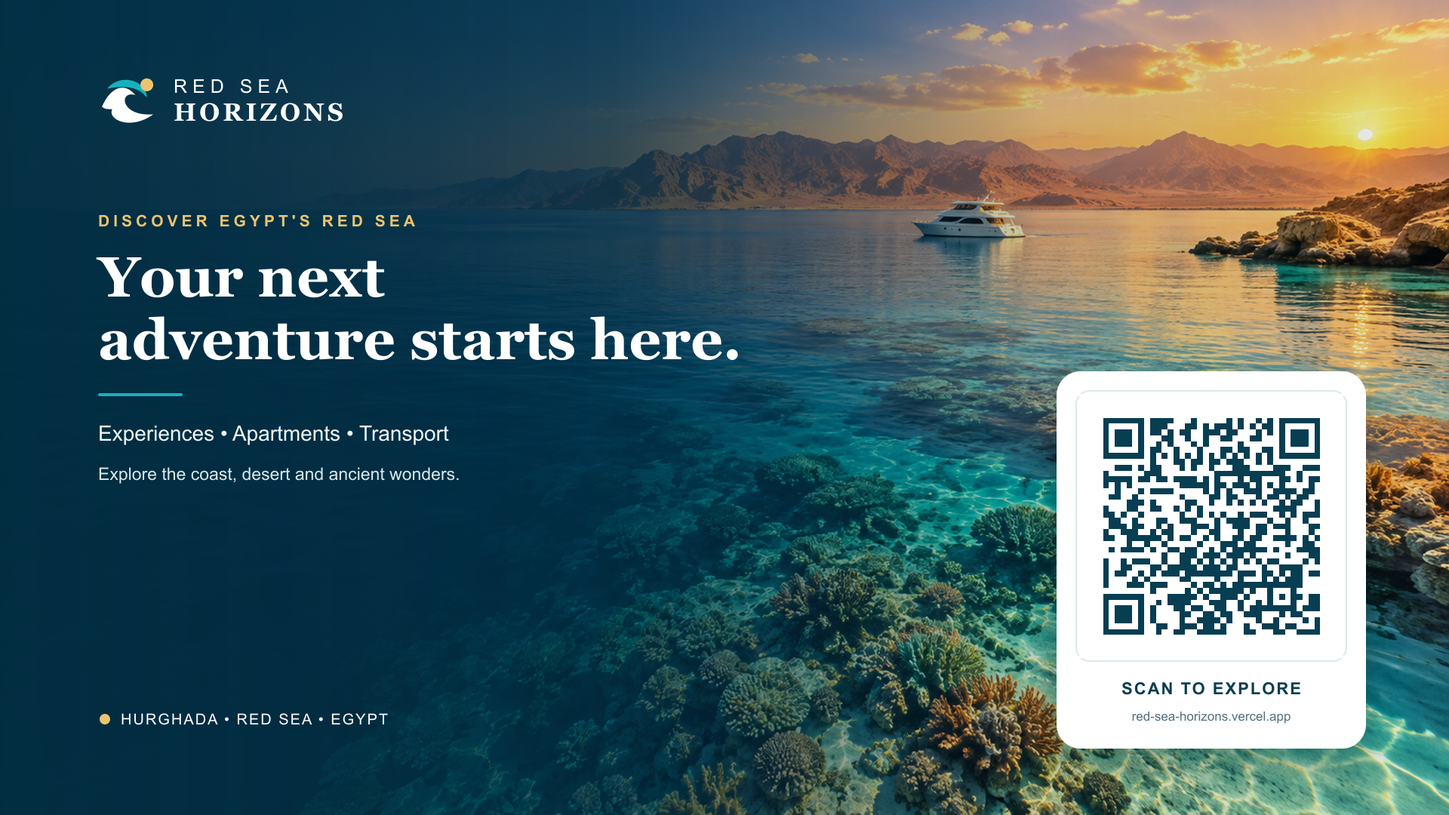
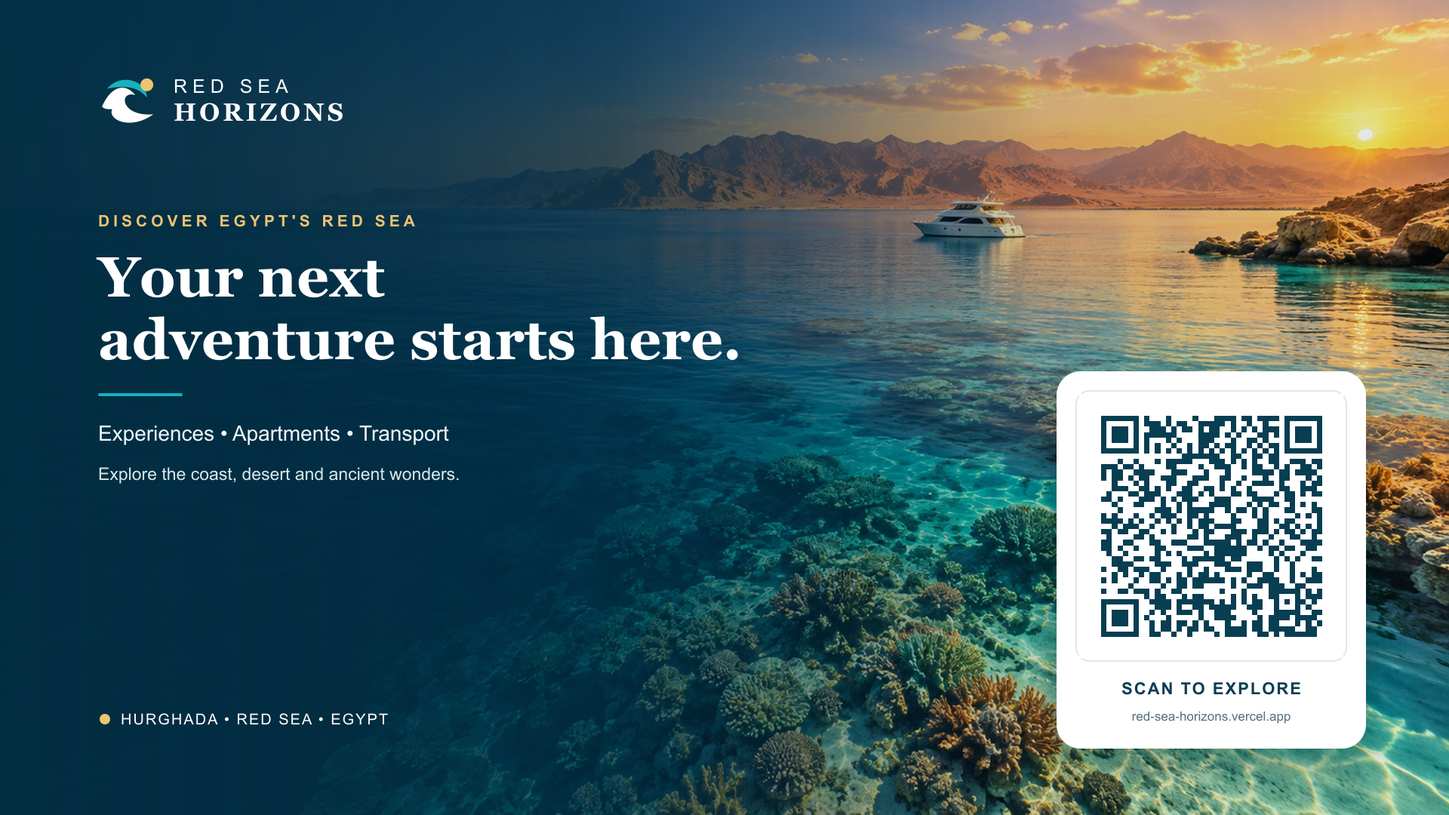
Add Arabic admin and route QR to reviews

Changed region(s): [[0.75, 0.4889, 0.9375, 0.7944]]

diff --git a/src/components/AdminArabic.tsx b/src/components/AdminArabic.tsx
@@ -1,0 +1,64 @@
+"use client";
+
+import {useEffect,useRef} from "react";
+
+const arabic:Record<string,string>={
+  "Operations navigation":"التنقل في العمليات","Overview":"نظرة عامة","Reservations":"الحجوزات","Departure calendar":"جدول الرحلات","Resources & assignments":"الموارد والتكليفات","Apartments":"الشقق","Transport":"النقل","Guests":"الضيوف","Contact inbox":"صندوق رسائل التواصل","Payments":"المدفوعات","Refunds & exceptions":"المبالغ المستردة والاستثناءات","Photos & galleries":"الصور والمعارض","Catalog & prices":"الكتالوج والأسعار","Notifications & jobs":"الإشعارات والمهام","Reports":"التقارير","Staff":"الموظفون","Settings & audit":"الإعدادات وسجل التدقيق",
+  "Staff sign in":"تسجيل دخول الموظفين","Sign in":"تسجيل الدخول","Signing in…":"جارٍ تسجيل الدخول…","Email":"البريد الإلكتروني","Password":"كلمة المرور","Checking staff access…":"جارٍ التحقق من صلاحية الموظف…","Sign in with your staff email and password. Your current role and scope control access.":"سجّل الدخول ببريد الموظف وكلمة المرور. يحدد دورك ونطاق عملك الصلاحيات المتاحة.","Open guest website":"فتح موقع الزوار","Sign out":"تسجيل الخروج","Workspace menu":"قائمة لوحة الإدارة","Staff workspace":"مساحة عمل الموظفين","Local demonstration":"عرض محلي","Local demonstration · Africa/Cairo":"عرض محلي · توقيت القاهرة","Staff workspace · Africa/Cairo":"مساحة عمل الموظفين · توقيت القاهرة","Red Sea Horizons / Operations":"ريد سي هورايزنز / العمليات","Africa/Cairo":"توقيت القاهرة","العربية":"العربية",
+  "Reservation overview":"نظرة عامة على الحجوزات","Every request receives a staff decision before payment.":"يتم اتخاذ قرار من الموظفين بشأن كل طلب قبل الدفع.","Review requests":"مراجعة الطلبات","Awaiting review":"طلبات بانتظار المراجعة","Payment holds":"طلبات بانتظار الدفع","Confirmed reservations":"الحجوزات المؤكدة","Financial exceptions":"الاستثناءات المالية","Requests needing a decision":"طلبات تحتاج إلى قرار","View all reservations":"عرض جميع الحجوزات","Today’s operating controls":"ضوابط التشغيل اليوم","Departure schedules":"جداول الرحلات","Apartment blocks & stays":"حجوزات وإقامات الشقق","Delivery & job failures":"فشل التسليم والمهام","Open":"فتح","Availability is checked at approval":"يتم التحقق من التوفر عند الموافقة","Availability is checked again when you approve. A conflict preserves the request and allocates nothing.":"يُعاد التحقق من التوفر عند الموافقة. إذا وُجد تعارض يبقى الطلب دون تخصيص أي موارد.",
+  "Your staff workspace":"مساحة عمل الموظفين","Select an authorized workspace. Access is checked again on every operation.":"اختر مساحة عمل مصرحاً بها. تتم إعادة التحقق من الصلاحيات في كل عملية.","Review each request before allocating capacity or requesting payment.":"راجع كل طلب قبل تخصيص السعة أو طلب الدفع.","Reservation":"الحجز","Guest":"الضيف","Status":"الحالة","Total":"الإجمالي","Received":"تاريخ الاستلام","No reservations match this view.":"لا توجد حجوزات مطابقة لهذا العرض.","Search this view…":"البحث في هذا العرض…","All states":"كل الحالات","shown":"معروض","Refresh":"تحديث","Actions":"الإجراءات","Manage":"إدارة","Close":"إغلاق","Close editor":"إغلاق المحرر","Save":"حفظ","Saving…":"جارٍ الحفظ…","Select…":"اختر…","No approved options are configured.":"لا توجد خيارات معتمدة مهيأة.",
+  "Catalog & content":"الكتالوج والمحتوى","Draft content is published only after translations and policy approvals pass.":"لا يُنشر المحتوى المسودة إلا بعد اعتماد الترجمات والسياسات.","Experience":"التجربة","Category":"الفئة","State":"الحالة","Minutes":"الدقائق","Create experience":"إنشاء تجربة","Experiences":"التجارب","Pages & translations":"الصفحات والترجمات","Pickup locations":"مواقع الاستلام","Pickup prices":"أسعار الاستلام","Reviews":"التقييمات","Title":"العنوان","Language":"اللغة","URL slug":"رابط الصفحة","Summary":"الملخص","Duration in minutes":"المدة بالدقائق","Booking cutoff in minutes":"مهلة الحجز بالدقائق","Destination":"الوجهة","Content language":"لغة المحتوى","Itinerary — one step per line":"برنامج الرحلة — خطوة في كل سطر","Included — one item per line":"المشمول — عنصر في كل سطر","Excluded — one item per line":"غير المشمول — عنصر في كل سطر","Guest restrictions and preparation":"قيود الضيوف والاستعدادات","Minimum participant age":"الحد الأدنى لعمر المشارك","Cancellation policy version":"إصدار سياسة الإلغاء","Meeting and pickup notes":"ملاحظات اللقاء والاستلام",
+  "Read guest enquiries and track responses.":"اقرأ استفسارات الضيوف وتابع الردود.","Request status":"حالة الطلب","Refresh inbox":"تحديث الصندوق","Loading contact requests…":"جارٍ تحميل طلبات التواصل…","Sender":"المرسل","Load older requests":"تحميل طلبات أقدم","Contact request":"طلب تواصل","Back to contact inbox":"العودة إلى صندوق التواصل","Loading contact request…":"جارٍ تحميل طلب التواصل…","Phone":"الهاتف","Not provided":"غير متوفر","Guest message":"رسالة الضيف","Contact status":"حالة التواصل","New":"جديد","Assigned":"مُسند","Replied":"تم الرد","Closed":"مغلق","Spam":"مزعج","Save status":"حفظ الحالة","Refresh request":"تحديث الطلب","Contact status updated.":"تم تحديث حالة التواصل.",
+  "Reservation details":"تفاصيل الحجز","Return to requests":"العودة إلى الطلبات","Guest & reservation":"الضيف والحجز","Name":"الاسم","Initial payment due":"الدفعة الأولى المستحقة","Reserved items":"العناصر المحجوزة","Timeline":"الخط الزمني","Guest requests":"طلبات الضيف","No open change or cancellation requests.":"لا توجد طلبات تعديل أو إلغاء مفتوحة.","Staff decision":"قرار الموظف","The server locks and rechecks every item. An availability conflict allocates nothing.":"يقفل الخادم كل عنصر ويعيد التحقق منه. عند تعارض التوفر لا يتم تخصيص أي شيء.","Record decision":"تسجيل القرار","Decision":"القرار","Reason or internal note":"السبب أو ملاحظة داخلية","Payment is requested only after the approval transaction succeeds.":"لا يُطلب الدفع إلا بعد نجاح معاملة الموافقة.",
+  "Read the configured business identity and append-only operational audit.":"عرض هوية النشاط وسجل العمليات غير القابل للتعديل.","Action":"الإجراء","Target":"الهدف","Actor":"المنفذ","Time":"الوقت","Staff access":"صلاحيات الموظفين","Invite staff":"دعوة موظف","Invite-only access. Role changes and revocation are checked on every sensitive operation.":"الدخول بالدعوة فقط. يتم التحقق من تغييرات الأدوار وإلغاء الصلاحيات في كل عملية حساسة.","Staff member":"الموظف","Active":"نشط","Invitation email":"بريد الدعوة","Initial role":"الدور الأولي","Booking reports":"تقارير الحجوزات","From date":"من تاريخ","To date":"إلى تاريخ","Currency":"العملة","Apply report filters":"تطبيق مرشحات التقرير",
+  "pending review":"بانتظار المراجعة","approved pending payment":"موافق عليه بانتظار الدفع","confirmed":"مؤكد","rejected":"مرفوض","expired":"منتهي","cancelled":"ملغي","completed":"مكتمل","new":"جديد","assigned":"مُسند","replied":"تم الرد","closed":"مغلق","spam":"مزعج","Yes":"نعم","No":"لا","Version":"الإصدار",
+  "Times are shown in Africa/Cairo. Shared departures allocate seats once approved.":"تُعرض الأوقات بتوقيت القاهرة. تُخصص مقاعد الرحلات المشتركة بعد الموافقة.","Create departure":"إنشاء رحلة","Starts at (UTC)":"تبدأ في (UTC)","Ends at (UTC)":"تنتهي في (UTC)","Seat capacity":"سعة المقاعد","Request cutoff (UTC)":"آخر موعد للطلب (UTC)","Coordinate boats, guides, equipment and drivers without overlapping exclusive assignments.":"نسّق القوارب والمرشدين والمعدات والسائقين دون تداخل التكليفات الحصرية.","Create resource":"إنشاء مورد","Resource":"المورد","Kind":"النوع","Allocation":"التخصيص","Capacity":"السعة","Resource name":"اسم المورد","Capacity model":"نموذج السعة","Resource code":"رمز المورد","Vehicle passenger seats":"مقاعد ركاب المركبة","Vehicle luggage capacity":"سعة أمتعة المركبة","Vehicle type":"نوع المركبة",
+  "Agency-managed physical units. Approved stays and manual blocks share one inventory.":"وحدات تديرها الوكالة. تتشارك الإقامات المعتمدة والحجوزات اليدوية في مخزون واحد.","Create apartment":"إنشاء شقة","Unit":"الوحدة","Apartment":"الشقة","Nightly rate":"سعر الليلة","Property":"العقار","Unit code":"رمز الوحدة","Description":"الوصف","Bedrooms":"غرف النوم","Beds":"الأسرة","Bathrooms":"الحمامات","Maximum guests":"الحد الأقصى للضيوف","Nightly rate in minor units":"سعر الليلة بالوحدة الصغرى","Charge currency":"عملة الدفع","Minimum nights":"الحد الأدنى لليالي","Cleaning buffer days":"أيام مهلة التنظيف","Check-in time":"وقت تسجيل الوصول","Check-out time":"وقت تسجيل المغادرة","Amenities":"المرافق","Cleaning fee in minor units":"رسوم التنظيف بالوحدة الصغرى",
+  "Passenger and luggage requirements remain attached to the reservation.":"تظل متطلبات الركاب والأمتعة مرتبطة بالحجز.","Pickup":"الاستلام","Pickup time":"وقت الاستلام","Passengers":"الركاب","Bags":"الحقائب","Customer contact details are limited to your current permissions and scope.":"تُعرض بيانات تواصل العملاء وفق صلاحياتك ونطاق عملك فقط.","Provider events and verified offline receipts determine the ledger.":"تحدد أحداث مزود الدفع والإيصالات اليدوية الموثقة سجل الحسابات.","Source":"المصدر","Amount":"المبلغ","Recorded":"تاريخ التسجيل","Refund requests require a receipt source and separate authorized approval.":"تتطلب طلبات الاسترداد مصدر إيصال وموافقة مستقلة من شخص مخول.","Request refund":"طلب استرداد","Reason":"السبب","Booking ID":"معرف الحجز","Refund amount in minor units":"مبلغ الاسترداد بالوحدة الصغرى",
+  "Private delivery, package entitlements and publication consent are separate controls.":"التسليم الخاص واستحقاقات الباقات وموافقة النشر ضوابط مستقلة.","Create gallery":"إنشاء معرض","Gallery":"المعرض","Visibility":"الظهور","Expires":"ينتهي في","Gallery type":"نوع المعرض","Gallery title":"عنوان المعرض","Expiry (UTC)":"تاريخ الانتهاء (UTC)","Review email delivery and guests needing manual contact. Open an authorized reservation to prepare a WhatsApp draft; review and send it yourself.":"راجع حالات التسليم والضيوف الذين يحتاجون تواصلاً يدوياً. افتح حجزاً مصرحاً به لإعداد مسودة واتساب ثم راجعها وأرسلها بنفسك.","Event":"الحدث","Delivery state":"حالة التسليم","Attempt":"المحاولة","Created":"تاريخ الإنشاء","Aggregates use recorded data. Keep currencies separate when assessing finance.":"تعتمد المجاميع على البيانات المسجلة. افصل العملات عند مراجعة الحسابات.","Bookings":"الحجوزات","Operational total":"الإجمالي التشغيلي",
+  "Read guest enquiries and track responses. Retained messages are available to authorized staff with global scope.":"اقرأ استفسارات الضيوف وتابع الردود. الرسائل المحفوظة متاحة للموظفين المخولين ذوي النطاق العام.","Notification & jobs":"الإشعارات والمهام","Durable jobs":"المهام الموثوقة","Finance report":"التقرير المالي","Apartment occupancy":"إشغال الشقق","Agency settings":"إعدادات الوكالة","Content pages":"صفحات المحتوى","Review moderation":"إدارة التقييمات","Media processing":"معالجة الوسائط","Photography packages":"باقات التصوير","Pickup places and addresses approved by the operator.":"مواقع وعناوين الاستلام المعتمدة من المشغل.","Saved surcharges apply to new quotes. Accepted prices remain unchanged.":"تطبق الرسوم الإضافية المحفوظة على عروض الأسعار الجديدة دون تغيير الأسعار المقبولة.","Translation approval is required before publication.":"يلزم اعتماد الترجمة قبل النشر.","Moderation records a reason and preserves the guest’s original rating.":"تسجل الإدارة سبب الإجراء مع الاحتفاظ بتقييم الضيف الأصلي.","Retry eligible failed work after correcting its underlying cause.":"أعد محاولة المهام المؤهلة بعد معالجة سبب الفشل.","Business identity and booking intake require owner-approved content.":"تتطلب هوية النشاط واستقبال الحجوزات محتوى معتمداً من المالك.","Uploads remain quarantined until verified and processed.":"تبقى الملفات المرفوعة في العزل حتى التحقق منها ومعالجتها."
+};
+
+function translated(value:string){
+  const trimmed=value.trim();
+  if(!trimmed)return value;
+  const direct=arabic[trimmed]??arabic[trimmed.replaceAll("_"," ")];
+  if(direct)return value.replace(trimmed,direct);
+  const noMatch=trimmed.match(/^No (.+) match this view\.$/);
+  if(noMatch)return value.replace(trimmed,`لا توجد نتائج مطابقة في ${arabic[noMatch[1]]??noMatch[1]}.`);
+  const shown=trimmed.match(/^(\d+) shown$/);
+  if(shown)return value.replace(trimmed,`${shown[1]} معروض`);
+  return value;
+}
+
+function localize(root:HTMLElement){
+  const walker=document.createTreeWalker(root,NodeFilter.SHOW_TEXT);
+  let node:Node|null;
+  while((node=walker.nextNode())){
+    const element=node.parentElement;
+    if(!element||element.closest("script,style")||element.matches("input,textarea"))continue;
+    const next=translated(node.nodeValue??"");
+    if(next!==node.nodeValue)node.nodeValue=next;
+  }
+  root.querySelectorAll<HTMLElement>("[aria-label],[placeholder],[title]").forEach(element=>{
+    for(const attribute of ["aria-label","placeholder","title"]){const value=element.getAttribute(attribute);const next=value?translated(value):value;if(value&&next!==value)element.setAttribute(attribute,next!);}
+  });
+  root.querySelectorAll<HTMLElement>(".admin-empty").forEach(element=>{if(/^No .+ match this view\.$/.test(element.textContent?.trim()??""))element.textContent="لا توجد نتائج مطابقة لهذا العرض.";});
+  root.querySelectorAll<HTMLAnchorElement>('a[href^="/admin"]').forEach(link=>{
+    const url=new URL(link.href,location.origin);url.searchParams.set("lang","ar");const next=`${url.pathname}${url.search}${url.hash}`;if(link.getAttribute("href")!==next)link.setAttribute("href",next);
+  });
+}
+
+export function AdminArabic({enabled,children}:{enabled:boolean;children:React.ReactNode}){
+  const ref=useRef<HTMLDivElement>(null);
+  useEffect(()=>{
+    const root=ref.current;if(!enabled||!root)return;
+    localize(root);
+    const observer=new MutationObserver(()=>localize(root));
+    observer.observe(root,{subtree:true,childList:true,characterData:true,attributes:true,attributeFilter:["aria-label","placeholder","title","href"]});
+    const keepArabic=(event:MouseEvent)=>{const link=(event.target as Element|null)?.closest<HTMLAnchorElement>('a[href^="/admin"]');if(!link||link.classList.contains("admin-language-switch"))return;event.preventDefault();event.stopPropagation();const url=new URL(link.href,location.origin);url.searchParams.set("lang","ar");location.assign(`${url.pathname}${url.search}${url.hash}`);};
+    root.addEventListener("click",keepArabic,true);
+    return()=>{observer.disconnect();root.removeEventListener("click",keepArabic,true);};
+  },[enabled]);
+  return <div ref={ref} className="admin-locale-root" lang={enabled?"ar":"en"} dir={enabled?"rtl":"ltr"}>{children}</div>;
+}

diff --git a/src/components/AdminApp.tsx b/src/components/AdminApp.tsx
@@ -7,6 +7,7 @@ import {money,cairoDate} from "./format";
 import type {BookingDTO} from "./GuestFlows";
 import {GuestWhatsAppLink} from "./WhatsAppLinks";
 import {AdminContact,AdminContactInbox} from "./AdminContact";
+import {AdminArabic} from "./AdminArabic";
 
 type Row=Record<string,unknown>;
 type Field={name:string;label:string;type?:"number"|"datetime-local"|"date"|"email"|"textarea"|"select"|"time"|"multiselect";required?:boolean;options?:string[];lookup?:string;defaultValue?:string;hint?:string;path?:string};
@@ -33,18 +34,20 @@ function text(value:unknown):string {if(value===null||value===undefined)return "
 function fieldValue(row:Row,key:string){const aliases:Record<string,string[]>={title:["title","name","unit_code"],guest_name:["guest_name","full_name"],total_amount:["total_amount","total_amount_minor","totalAmountMinor"],nightly_amount:["nightly_amount","default_rate","nightly_amount_minor"],amount:["amount","amount_minor","expected_amount"]};return (aliases[key]??[key]).map(name=>row[name]).find(value=>value!==undefined);}
 function display(value:unknown,key:string,row:Row) {if(value==null)return "—";if(key==="error_class"&&value==="MANUAL_CONTACT_REQUIRED")return "Manual contact required — no email";if(key==="event_type")return text(value).replaceAll("_"," ");if(/(_at|^starts_at|^ends_at)$/.test(key)&&typeof value==="string"&&!Number.isNaN(Date.parse(value)))return cairoDate(value,"en");if(/amount|cash_collected|refunds_paid|chargebacks_and_reversals|net_cash|receivables|customer_liability|operational_sales/.test(key)&&/^-?\d+$/.test(String(value)))return money(String(value),String(row.currency??"EGP"),"en");return text(value);}
 
-export function AdminApp({path,demo}:{path:string[];demo:boolean}) {
+export function AdminApp({path,demo,locale}:{path:string[];demo:boolean;locale:"en"|"ar"}) {
  const section=path[0]??"";const detail=path[1];const [authenticated,setAuthenticated]=useState<boolean|null>(null);const [message,setMessage]=useState("");const [busy,setBusy]=useState(false);const [permissions,setPermissions]=useState<string[]>([]);
  const permissionMap:Record<string,string>={"":"bookings.read",bookings:"bookings.read",calendar:"operations.write",operations:"operations.write",apartments:"apartments.write",transport:"operations.write",guests:"bookings.read",contact:"contacts.read",payments:"finance.reconcile",refunds:"finance.reconcile",galleries:"galleries.manage",content:"catalog.write",notifications:"notifications.read",reports:"reports.read",staff:"staff.manage",settings:"audit.read"};
  async function loadSession(){const session=await api<{permissions:string[]}>("/admin/session");setPermissions(session.permissions);setAuthenticated(true);}
  useEffect(()=>{api<{permissions:string[]}>("/admin/session").then(session=>{setPermissions(session.permissions);setAuthenticated(true);}).catch(cause=>{setAuthenticated(false);if(cause instanceof ApiError&&cause.status!==401&&cause.status!==403)setMessage(cause.message);});},[]);
  async function login(event:React.FormEvent<HTMLFormElement>,local=false) {event.preventDefault();setBusy(true);setMessage("");const form=new FormData(event.currentTarget);try{await api(local?"/admin/auth/local":"/admin/auth/login",local?{token:form.get("token")}:{email:form.get("email"),password:form.get("password")});await loadSession();}catch(cause){setMessage(cause instanceof Error?cause.message:"Sign-in failed. Please try again.");}finally{setBusy(false);}}
- if(section==="invite")return <StaffInvitation/>;
- if(authenticated===null)return <main className="admin-login"><h1>Red Sea Horizons</h1><p role="status">Checking staff access…</p></main>;
- if(!authenticated)return <main className="admin-login"><Link href="/en" className="wordmark"><Mark/><span>RED SEA<br/><strong>HORIZONS</strong></span></Link><h1>Staff sign in</h1><p>{demo?"Use your provisioned local account. Your current staff role controls access to prices, photos and reservations.":"Sign in with your staff email and password. Your current role and scope control access."}</p><form className="form-stack" onSubmit={event=>login(event)}><label>Email<input type="email" name="email" autoComplete="username" required/></label><label>Password<input type="password" name="password" autoComplete="current-password" required/></label><button className="button" disabled={busy}>{busy?"Signing in…":"Sign in"}</button></form>{demo&&<details><summary>Local operator access</summary><p className="small">Local verification only. Use the one-time token issued by the operator bootstrap command.</p><form className="form-stack" onSubmit={event=>login(event,true)}><label>Local operator token<input name="token" type="password" autoComplete="off" required/></label><button className="button button-secondary" disabled={busy}>Open local workspace</button></form></details>}{message&&<p role="alert" className="admin-error">{message}</p>}</main>;
+ const localized=(children:React.ReactNode)=><AdminArabic enabled={locale==="ar"}>{children}</AdminArabic>;
+ const languageSwitch=<Link className="text-link admin-language-switch" href={`${section?`/admin/${path.join("/")}`:"/admin"}${locale==="ar"?"":"?lang=ar"}`}>{locale==="ar"?"English":"العربية"}</Link>;
+ if(section==="invite")return localized(<StaffInvitation/>);
+ if(authenticated===null)return localized(<main className="admin-login">{languageSwitch}<h1>Red Sea Horizons</h1><p role="status">Checking staff access…</p></main>);
+ if(!authenticated)return localized(<main className="admin-login">{languageSwitch}<Link href="/en" className="wordmark"><Mark/><span>RED SEA<br/><strong>HORIZONS</strong></span></Link><h1>Staff sign in</h1><p>{demo?"Use your provisioned local account. Your current staff role controls access to prices, photos and reservations.":"Sign in with your staff email and password. Your current role and scope control access."}</p><form className="form-stack" onSubmit={event=>login(event)}><label>Email<input type="email" name="email" autoComplete="username" required/></label><label>Password<input type="password" name="password" autoComplete="current-password" required/></label><button className="button" disabled={busy}>{busy?"Signing in…":"Sign in"}</button></form>{demo&&<details><summary>Local operator access</summary><p className="small">Local verification only. Use the one-time token issued by the operator bootstrap command.</p><form className="form-stack" onSubmit={event=>login(event,true)}><label>Local operator token<input name="token" type="password" autoComplete="off" required/></label><button className="button button-secondary" disabled={busy}>Open local workspace</button></form></details>}{message&&<p role="alert" className="admin-error">{message}</p>}</main>);
  const available=nav.filter(([href])=>permissions.includes(permissionMap[href]));
  const navigation=<nav aria-label="Operations navigation">{available.map(([href,label])=><Link key={href} href={`/admin${href?`/${href}`:""}`} aria-current={section===href?"page":undefined}>{label}</Link>)}</nav>;
- return <div className="admin-app" data-ui><aside className="admin-nav"><Link href="/admin" className="wordmark"><Mark/><span>RED SEA<br/><strong>HORIZONS</strong></span></Link>{navigation}<Link href="/en">Open guest website</Link><button className="text-button" onClick={async()=>{await api("/admin/auth/logout",{});setAuthenticated(false);}}>Sign out</button></aside><header className="admin-topbar"><details className="admin-mobile-nav"><summary>Workspace menu</summary>{navigation}</details><span>Red Sea Horizons / Operations</span><span>{demo?"Local demonstration":"Staff workspace"} · Africa/Cairo</span></header><main className="admin-sheet" id="main">{!permissions.includes(permissionMap[section])?<><h1>Your staff workspace</h1><p>Select an authorized workspace. Access is checked again on every operation.</p>{navigation}</>:section==="contact"?(detail?<AdminContact key={detail} id={detail} canManage={permissions.includes("contacts.manage")}/>:<AdminContactInbox/>):section==="bookings"&&detail?<AdminBooking id={detail}/>:section?<AdminScreen section={section} detail={detail}/>:<AdminOverview/>}</main></div>;
+ return localized(<div className="admin-app" dir={locale==="ar"?"rtl":"ltr"} data-ui><aside className="admin-nav"><Link href="/admin" className="wordmark"><Mark/><span>RED SEA<br/><strong>HORIZONS</strong></span></Link>{navigation}<Link href="/en">Open guest website</Link>{languageSwitch}<button className="text-button" onClick={async()=>{await api("/admin/auth/logout",{});setAuthenticated(false);}}>Sign out</button></aside><header className="admin-topbar"><details className="admin-mobile-nav"><summary>Workspace menu</summary>{navigation}</details><span>Red Sea Horizons / Operations</span><span>{demo?"Local demonstration":"Staff workspace"} · Africa/Cairo</span></header><main className="admin-sheet" id="main">{!permissions.includes(permissionMap[section])?<><h1>Your staff workspace</h1><p>Select an authorized workspace. Access is checked again on every operation.</p>{navigation}</>:section==="contact"?(detail?<AdminContact key={detail} id={detail} canManage={permissions.includes("contacts.manage")}/>:<AdminContactInbox/>):section==="bookings"&&detail?<AdminBooking id={detail}/>:section?<AdminScreen section={section} detail={detail}/>:<AdminOverview/>}</main></div>);
 }
 function AdminOverview() {
  const [summary,setSummary]=useState<Record<string,number>|null>(null);const [rows,setRows]=useState<Row[]>([]);const [error,setError]=useState("");

diff --git a/tests/e2e/admin-arabic.spec.ts b/tests/e2e/admin-arabic.spec.ts
@@ -1,0 +1,35 @@
+import {test,expect} from "@playwright/test";
+
+test("Arabic admin workspace keeps navigation and operational data functional",async({page})=>{
+  let createdResource:Record<string,unknown>|null=null;
+  await page.route("**/api/v1/admin/session",route=>route.fulfill({json:{data:{permissions:["bookings.read","operations.write","contacts.read","finance.reconcile","galleries.manage","catalog.write","notifications.read","reports.read","staff.manage","audit.read","apartments.write"]}}}));
+  await page.route("**/api/v1/admin/summary",route=>route.fulfill({json:{data:{pendingRequests:2,activeHolds:1,confirmedBookings:8,openExceptions:0}}}));
+  await page.route("**/api/v1/admin/bookings?status=pending_review",route=>route.fulfill({json:{data:{items:[]}}}));
+  await page.route("**/api/v1/admin/bookings",route=>route.fulfill({json:{data:{items:[]}}}));
+  await page.route("**/api/v1/admin/lookups",route=>route.fulfill({json:{data:{}}}));
+  await page.route("**/api/v1/admin/resources",async route=>{
+    if(route.request().method()==="POST"){createdResource=route.request().postDataJSON();return route.fulfill({status:201,json:{data:{id:"00000000-0000-4000-8000-000000000001"}}});}
+    return route.fulfill({json:{data:{items:[]}}});
+  });
+
+  await page.goto("/admin?lang=ar");
+  await expect(page.locator(".admin-app")).toHaveAttribute("dir","rtl");
+  await expect(page.getByRole("heading",{name:"نظرة عامة على الحجوزات"})).toBeVisible();
+  await expect(page.getByRole("navigation",{name:"التنقل في العمليات"})).toBeVisible();
+  await expect(page.getByRole("link",{name:"الحجوزات",exact:true})).toBeVisible();
+  await expect(page.getByText("طلبات بانتظار المراجعة",{exact:true})).toBeVisible();
+
+  await page.getByRole("link",{name:"الحجوزات",exact:true}).click();
+  await expect(page).toHaveURL(/\/admin\/bookings\?lang=ar$/);
+  await expect(page.getByRole("heading",{name:"الحجوزات",exact:true})).toBeVisible();
+  await expect(page.getByRole("link",{name:"English",exact:true})).toBeVisible();
+
+  await page.getByRole("link",{name:"الموارد والتكليفات",exact:true}).click();
+  await page.getByRole("button",{name:"إنشاء مورد",exact:true}).click();
+  await page.getByLabel("اسم المورد",{exact:true}).fill("مرشد تجريبي");
+  await page.getByLabel("رمز المورد",{exact:true}).fill("arabic-guide");
+  await page.getByRole("combobox",{name:"النوع",exact:true}).selectOption("guide");
+  await page.getByRole("combobox",{name:"نموذج السعة",exact:true}).selectOption("exclusive");
+  await page.getByRole("button",{name:"حفظ",exact:true}).click();
+  await expect.poll(()=>createdResource).toMatchObject({name:"مرشد تجريبي",code:"arabic-guide",kind:"guide",mode:"exclusive"});
+});

diff --git a/src/app/[locale]/[[...path]]/page.tsx b/src/app/[locale]/[[...path]]/page.tsx
@@ -49,7 +49,7 @@ export default async function PublicPage({params,searchParams}:Props) {
   return <main tabIndex={-1} id="main" className="page-wrap detail-page"><Link href={`/${locale}/apartments`} className="back-link">{t("back")} · {t("apartments")}</Link><header className="detail-heading"><div><h1>{item.title}</h1><p>Port Ghalib · {item.maxGuests} {t("guests")}</p></div><p><bdi className="detail-price">{money(item.nightlyAmountMinor,item.currency,locale)}</bdi> / {t("night")}</p></header><Photo image={item.image} alt={item.title} className="detail-hero" priority/><div className="detail-columns"><div><p className="lead">{item.summary}</p><section><h2>{t("amenities")}</h2><ul className="amenity-list">{item.amenities.map(amenity=><li key={amenity}>{amenity.replaceAll("_"," ")}</li>)}</ul></section><section><h2>{t("houseRules")}</h2><ul>{item.houseRules.map((line,index)=><li key={index}>{line}</li>)}</ul><p>{t("checkIn")} <bdi>{item.checkInTime}</bdi> · {t("checkOut")} <bdi>{item.checkOutTime}</bdi></p><Link href={`/${locale}/cancellation-policy`}>{t("cancellation")}</Link></section></div><aside className="request-panel"><h2>{t("requestStay")}</h2><p>{t("manualIntro")}</p><div className="price-line"><span>{t("from")}</span><bdi>{money(item.nightlyAmountMinor,item.currency,locale)} / {t("night")}</bdi></div><p className="small">{t("minimumStay",{nights:item.minNights})}</p><Link href={`/${locale}/booking/request?apartment=${encodeURIComponent(item.id)}`} className="button">{t("requestStay")}<Arrow/></Link><p className="small">{t("noPayment")}</p></aside></div></main>;
  }
  if(section==="apartments")return frame(t("stayTitle"),<Catalog apartments={data.apartments} destinations={data.destinations} locale={locale}/>,t("stayIntro"));
- const categories:Record<string,string>={diving:"scuba-diving","shore-diving":"shore-dives",safari:"desert-safari",transportation:"transportation"};
+ const categories:Record<string,string>={diving:"scuba-diving",safari:"desert-safari",transportation:"transportation"};
  if(section==="experiences"||section in categories)return frame(section==="experiences"?t("experiences"):section==="transportation"?t("pickup"):t("experiences"),<Catalog services={data.services} destinations={data.destinations} locale={locale} initialGuests={Number(query.guests)||1} initialCategory={categories[section]??(typeof query.category==="string"?query.category:"")} initialDestination={typeof query.destination==="string"?query.destination:""}/>,t("homeIntro"));
  if(section==="destinations"&&detail) {
   const destination=data.destinations.find(item=>item.slug===detail);if(!destination)notFound();

diff --git a/src/components/Catalog.tsx b/src/components/Catalog.tsx
@@ -23,7 +23,7 @@ export function ApartmentCard({item,locale}:{item:ApartmentSummary;locale:string
  const t=useTranslations();
  return <article className="catalog-card"><Link href={`/${locale}/apartments/${item.slug}`}><Photo image={item.image} alt={item.title}/><div className="card-meta"><span>Port Ghalib</span><span>{t("guestCount",{count:item.maxGuests})}</span></div><h3>{item.title}</h3><p>{item.summary}</p><div className="card-bottom"><span><bdi className="money">{money(item.nightlyAmountMinor,item.currency,locale)}</bdi> / {t("night")}</span><Arrow/></div></Link></article>;
 }
-const categoryKeys:Record<string,string>={boat_tours:"catBoat",scuba_diving:"catDive",shore_dives:"catShore",desert_safari:"catSafari",beach_buggy:"catBuggy",tours:"catTours","boat-tours":"catBoat","scuba-diving":"catDive","shore-dives":"catShore",snorkeling:"catSnorkel","desert-safari":"catSafari","beach-buggy":"catBuggy",transportation:"catTransfer",photography:"catPhoto"};
+const categoryKeys:Record<string,string>={boat_tours:"catBoat",scuba_diving:"catDive",desert_safari:"catSafari",beach_buggy:"catBuggy",tours:"catTours","boat-tours":"catBoat","scuba-diving":"catDive",snorkeling:"catSnorkel","desert-safari":"catSafari","beach-buggy":"catBuggy",transportation:"catTransfer",photography:"catPhoto"};
 export function Search({locale,destinations}:{locale:string;destinations:DestinationSummary[]}) {
  const t=useTranslations();
  return <form className="discovery-search" action={`/${locale}/experiences`}><label>{t("where")}<select name="destination"><option value="">{t("anyDestination")}</option>{destinations.map(item=><option value={item.slug} key={item.id}>{item.title}</option>)}</select></label><label>{t("activity")}<select name="category"><option value="">{t("allActivities")}</option>{Object.keys(categoryKeys).map(category=><option value={category} key={category}>{t(categoryKeys[category])}</option>)}</select></label><label>{t("guests")}<input name="guests" type="number" min="1" max="30" defaultValue="1"/></label><button className="button" type="submit">{t("search")}<Arrow/></button></form>;

diff --git a/src/server/api/admin-reads.ts b/src/server/api/admin-reads.ts
@@ -52,7 +52,7 @@ export async function adminReads(request:Request,parts:string[]) {
     await getStaff(request);
     const [destinations,categories,variants,properties,roles,policies,amenities,cancellationPolicies,pickupLocations]=await Promise.all([
       query("SELECT id,canonical_slug AS title FROM app.destinations ORDER BY canonical_slug"),
-      query("SELECT id,code AS title FROM app.categories ORDER BY sort_order"),
+      query("SELECT id,code AS title FROM app.categories WHERE active ORDER BY sort_order"),
       query("SELECT v.id,t.title FROM app.service_variants v JOIN app.variant_translations t ON t.variant_id=v.id AND t.locale='en' WHERE v.active"),
       query("SELECT id,name AS title FROM app.properties WHERE active"),
       query("SELECT id,code AS title FROM app.roles"),

diff --git a/src/app/admin/[[...path]]/page.tsx b/src/app/admin/[[...path]]/page.tsx
@@ -1,6 +1,6 @@
 import {AdminApp} from "@/components/AdminApp";
 export const dynamic="force-dynamic";
-export default async function AdminPage({params}:{params:Promise<{path?:string[]}>}) {
- const {path=[]}=await params;
- return <AdminApp path={path} demo={process.env.DEMO_MODE==="true"&&process.env.APP_ENV!=="production"}/>;
+export default async function AdminPage({params,searchParams}:{params:Promise<{path?:string[]}>;searchParams:Promise<{lang?:string|string[]}>}) {
+ const [{path=[]},{lang}]=await Promise.all([params,searchParams]);
+ return <AdminApp path={path} locale={lang==="ar"?"ar":"en"} demo={process.env.DEMO_MODE==="true"&&process.env.APP_ENV!=="production"}/>;
 }

diff --git a/tests/integration/api.test.ts b/tests/integration/api.test.ts
@@ -18,6 +18,7 @@ afterAll(()=>db.end());
 test("public_catalog_and_policy_contract_use_database",async()=>{
   const catalog=await call("catalog?locale=ar"),policies=await call("policies/current?locale=ar");
   expect(catalog.response.status).toBe(200);expect(catalog.json.data.services.length).toBeGreaterThan(0);
+  expect(catalog.json.data.services.some((item:{category:string})=>item.category.replaceAll("_","-")==="shore-dives")).toBe(false);
   const arabic=/[\u0600-\u06ff]/;
   for(const item of [...catalog.json.data.services,...catalog.json.data.apartments,...catalog.json.data.destinations]){
     expect(item.title).toMatch(arabic);

diff --git a/src/app/admin/layout.tsx b/src/app/admin/layout.tsx
@@ -1,3 +1,3 @@
 import type {Metadata} from "next";
 export const metadata:Metadata={title:"Operations · Red Sea Horizons",robots:{index:false,follow:false}};
-export default function AdminLayout({children}:{children:React.ReactNode}){return <div dir="ltr" lang="en">{children}</div>;}
+export default function AdminLayout({children}:{children:React.ReactNode}){return children;}

diff --git a/PROJECT_STATUS.md b/PROJECT_STATUS.md
@@ -1,5 +1,7 @@
 # Red Sea Horizons — execution status
 
+2026-10-29 QR, Arabic administration and catalog update: the printable QR banner now decodes to `https://red-sea-horizons.vercel.app/en/reviews`. The administrator workspace supports Arabic at `/admin?lang=ar`, retains Arabic across internal navigation, uses RTL presentation, translates operational navigation/forms/statuses, and preserves the same authenticated API mutations; a browser test created a resource through the Arabic controls. Shore diving is archived and its category deactivated by authoritative migration `20261029014500_remove_shore_dives.sql`, preserving historical references while removing it from public catalog results, route aliases and new-service category options. Focused catalog integration and Arabic-admin browser tests pass; lint, TypeScript, locale parity and the production build pass. Next: push the migration to the designated Supabase database, deploy Vercel production, and record live browser evidence.
+
 2026-10-28 review policy update: the owner removed administrator approval before publication. Valid public and verified reviews now publish immediately; administrators can withdraw or restore selected reviews without deleting the original record. Migration `20261028013000_immediate_review_publication.sql` also publishes existing pending reviews and was applied to the designated production database. All ten locale messages were updated. Focused database behavior tests (2/2), focused browser flows (2/2), locale parity, TypeScript and the production build passed. Vercel deployment `dpl_DfBEEDpvCAL1KB3Dbf7nB4vBCRpJ` is READY at `https://red-sea-horizons.vercel.app`. A live honeypot submission verified the immediate-success UI without storing a fake review; live copy contains no approval/moderation promise, has no horizontal overflow and produced no console errors.
 
 2026-10-27 administrator access update: the owner explicitly replaced mandatory staff MFA with password-only sign-in. The login UI no longer requests a six-digit authenticator code. Migration `20261027210000_password_only_staff_login.sql` disables the MFA requirement for existing profiles and makes password-only the default for future invitations. Active-account, password, role, scope, session, revocation and rate-limit controls remain. Focused security tests (11/11), TypeScript and the production build passed. The migration was applied to production and Vercel deployment `dpl_2GCAjMLX7GxC4b9XYqDZJ6LAMQtN` is READY at `https://red-sea-horizons.vercel.app`. Live browser inspection confirmed only Email and Password fields, no authenticator/code prompt and no horizontal overflow. The unauthenticated session probe returned its expected 401; an owner-entered password sign-in remains the final private check.
